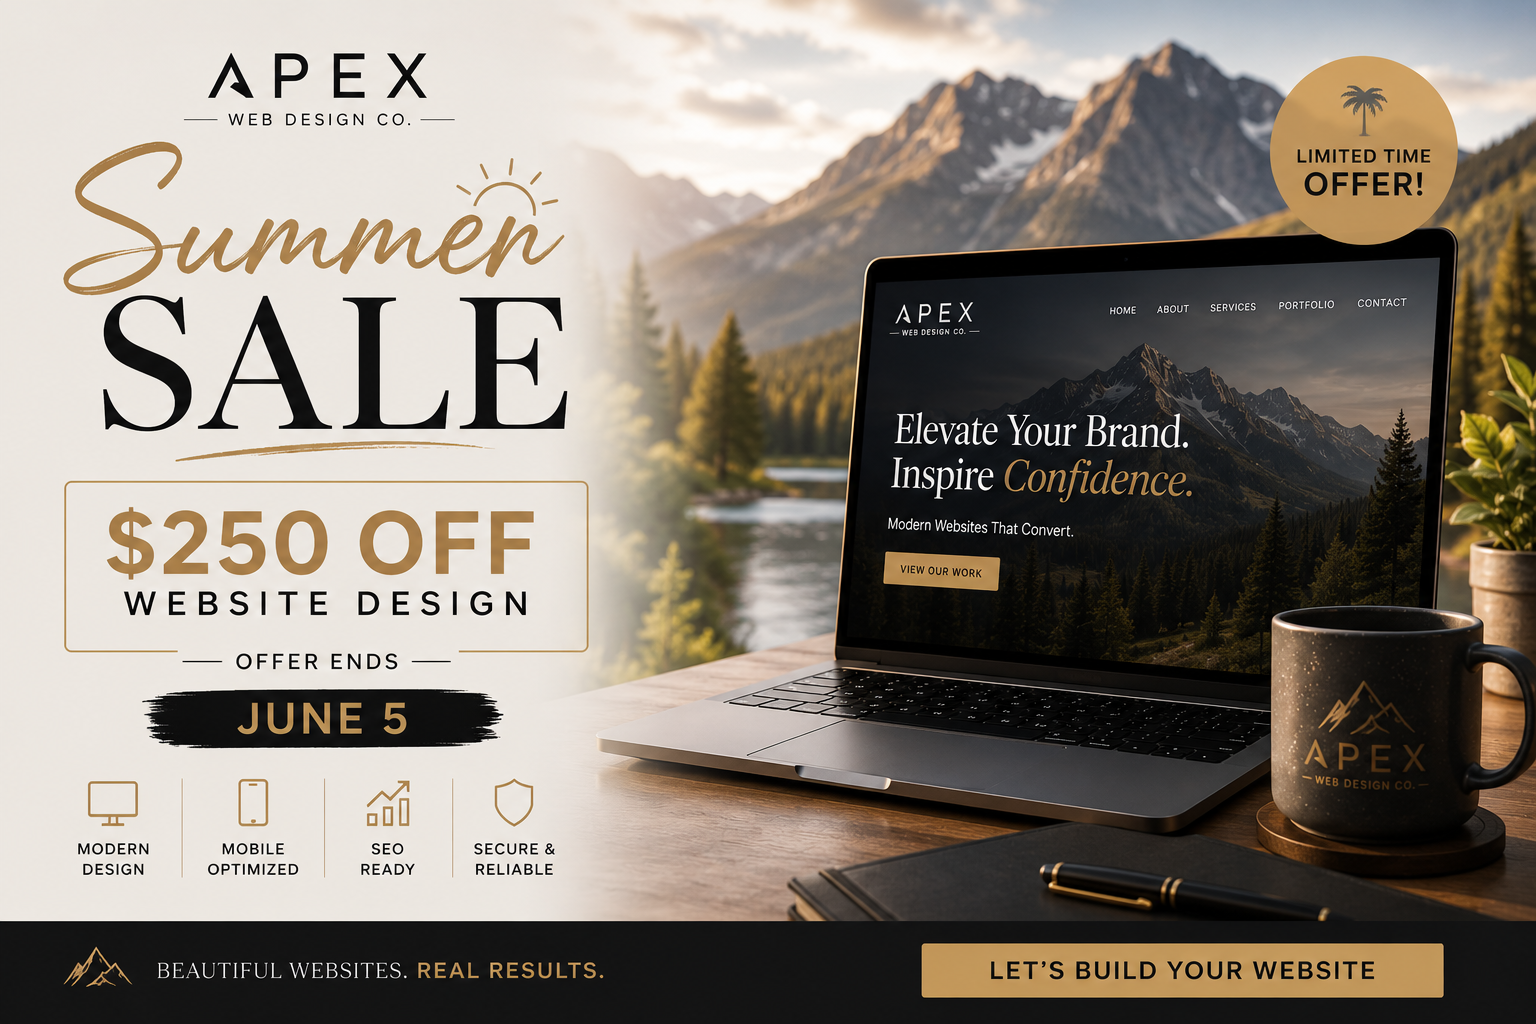
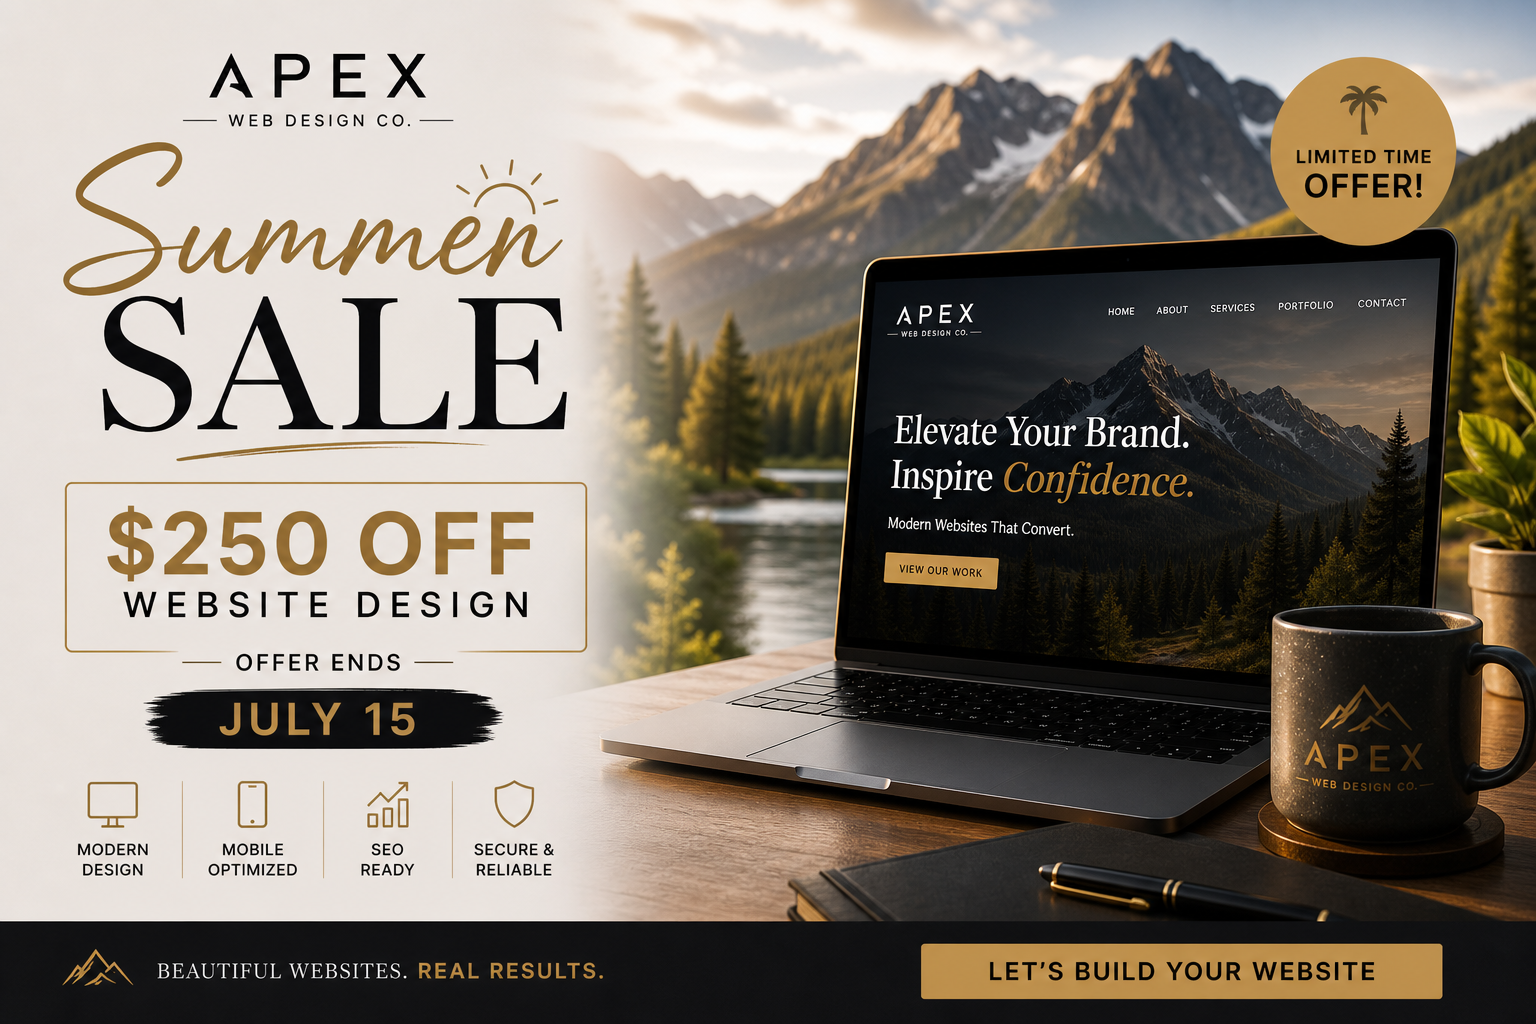
Update promotion expiration date

diff --git a/src/App.jsx b/src/App.jsx
@@ -497,7 +497,7 @@ export default function App() {
               <li>Built to Help Your Business Stand Out</li>
             </ul>
             <p className="promo-terms">
-              <strong>Offer expires June 5, 2026.</strong> To qualify for this promotion, the website project must be purchased and the initial payment completed on or before <strong>June 5, 2026</strong>. This offer cannot be combined with other discounts or promotions.
+              <strong>Offer expires July 15, 2026.</strong> To qualify for this promotion, the website project must be purchased and the initial payment completed on or before <strong>July 15, 2026</strong>. This offer cannot be combined with other discounts or promotions.
             </p>
             <p className="promo-close">Let's build a website that works as hard as you do.</p>
             <a className="button" href="#contact-form">
@@ -505,7 +505,7 @@ export default function App() {
             </a>
           </div>
           <a className="promotion-art" href="#contact-form" aria-label="Claim the Apex Web Design summer sale promotion">
-            <img src="/summer-sale.png" alt="Apex Web Design Co summer sale: $250 off website design, offer ends June 5" />
+            <img src="/summer-sale.png" alt="Apex Web Design Co summer sale: $250 off website design, offer ends July 15" />
           </a>
         </div>
       </section>

diff --git a/index.html b/index.html
@@ -2567,7 +2567,7 @@ h2 span {
               <li>Built to Help Your Business Stand Out</li>
             </ul>
             <p class="promo-terms">
-              <strong>Offer expires June 5, 2026.</strong> To qualify for this promotion, the website project must be purchased and the initial payment completed on or before <strong>June 5, 2026</strong>. This offer cannot be combined with other discounts or promotions.
+              <strong>Offer expires July 15, 2026.</strong> To qualify for this promotion, the website project must be purchased and the initial payment completed on or before <strong>July 15, 2026</strong>. This offer cannot be combined with other discounts or promotions.
             </p>
             <p class="promo-close">Let's build a website that works as hard as you do.</p>
             <a class="button" href="#contact-form">
@@ -2575,7 +2575,7 @@ h2 span {
             </a>
           </div>
           <a class="promotion-art" href="#contact-form" aria-label="Claim the Apex Web Design summer sale promotion">
-            <img src="public/summer-sale.png" alt="Apex Web Design Co summer sale: $250 off website design, offer ends June 5" />
+            <img src="public/summer-sale.png" alt="Apex Web Design Co summer sale: $250 off website design, offer ends July 15" />
           </a>
         </div>
       </section>
